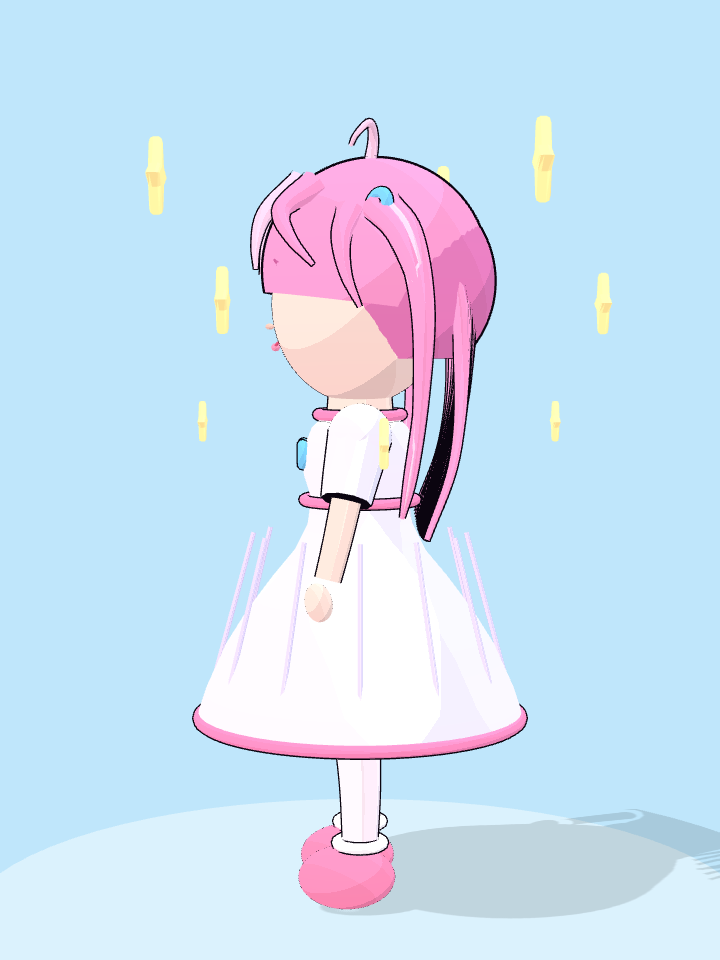
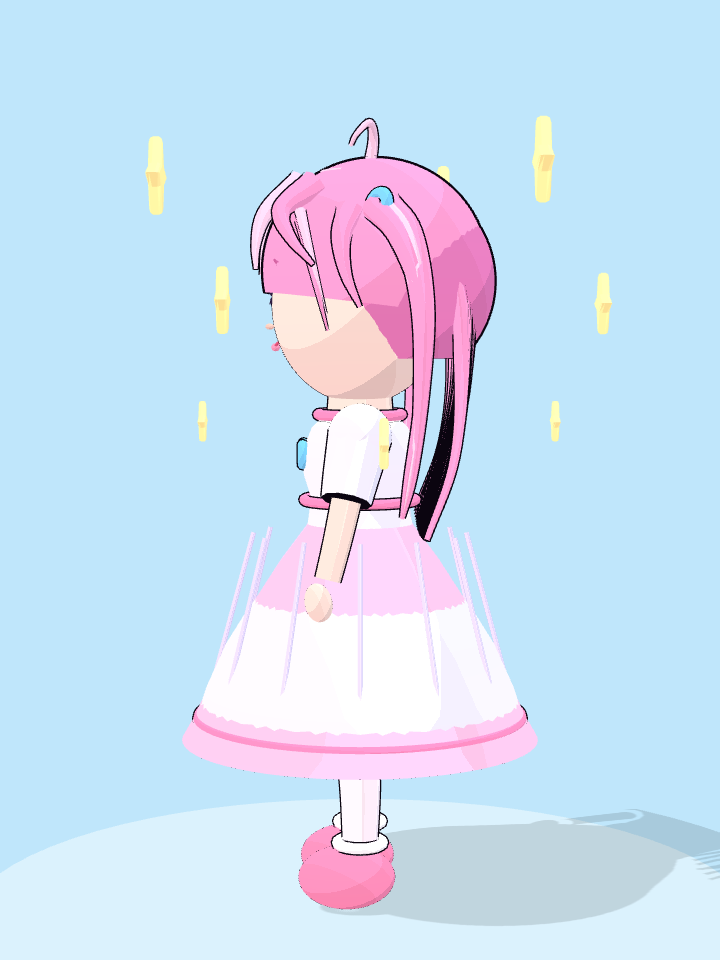
Add eyelashes, hair sheen, petticoat frill, star pin, and face-framing wisps

diff --git a/main.js b/main.js
@@ -218,7 +218,7 @@ function eyeTexture(flip) {
 
 function eyeMesh(flip, x) {
   const mat = new THREE.MeshBasicMaterial({ map: eyeTexture(flip), transparent: true, alphaTest: 0.05 });
-  const m = new THREE.Mesh(new THREE.PlaneGeometry(0.105, 0.125), mat);
+  const m = new THREE.Mesh(new THREE.PlaneGeometry(0.115, 0.14), mat);
   m.position.set(x, -0.012, 0.198);
   m.rotation.z = flip ? 0.05 : -0.05;
   head.add(m);
@@ -227,6 +227,20 @@ function eyeMesh(flip, x) {
 }
 eyeMesh(false, -0.085);
 eyeMesh(true, 0.085);
+
+// eyelashes: short tapered strands fanning from the top lid, outer side longer
+const lashMat = toon(0x2a1c3e);
+for (const s of [-1, 1]) {
+  const cx = s * 0.085, cy = -0.012, rx = 0.058, ry = 0.072;
+  for (let k = 0; k < 5; k++) {
+    const a = Math.PI * (0.55 + k * 0.1) + (s > 0 ? 0 : 0); // top arc, sweep from centre
+    const aa = s < 0 ? Math.PI - a : a;                     // outer corner gets the longer lashes
+    const rxRoot = cx + rx * Math.cos(aa), ryRoot = cy + ry * Math.sin(aa);
+    const reach = 0.03 - k * 0.003;
+    const tip = [rxRoot + Math.cos(aa) * reach * 0.8, ryRoot + reach * 0.9, 0.2];
+    head.add(strand([[rxRoot, ryRoot, 0.2], [(rxRoot + tip[0]) / 2, (ryRoot + tip[1]) / 2 + 0.004, 0.2], tip], 0.0046, 0.0008, { seg: 8, radial: 6 }, lashMat));
+  }
+}
 
 // blush
 const blushMat = new THREE.MeshBasicMaterial({ color: 0xff8fb4, transparent: true, opacity: 0.45, depthWrite: false });
@@ -265,6 +279,22 @@ cap.scale.set(1.0, 1.03, 1.04);
 cap.rotation.x = -0.12;
 addTo(head, cap, true, 0.005);
 
+// sheen: thin lighter arcs following the cap surface for a glossy highlight
+const capCenter = new THREE.Vector3(0, 0.075, -0.035);
+for (const [theta, span] of [[0.5, 0.9], [0.8, 0.8], [1.05, 0.55]]) {
+  const pts = [];
+  for (let k = 0; k <= 6; k++) {
+    const phi = -span + (k / 6) * 2 * span;
+    const R = 0.252;
+    pts.push([
+      capCenter.x + R * Math.sin(theta) * Math.sin(phi) * 1.0,
+      capCenter.y + R * Math.cos(theta),
+      capCenter.z + R * Math.sin(theta) * Math.cos(phi),
+    ]);
+  }
+  head.add(strand(pts, 0.0065, 0.0025, { seg: 20, radial: 6 }, hairHiMat));
+}
+
 // under-layer (deeper tone) for depth behind head
 const under = new THREE.Mesh(new THREE.SphereGeometry(0.235, 48, 28, 0, Math.PI * 2, 0.5, Math.PI * 0.6), hairDeepMat);
 under.position.set(0, 0.05, -0.07);
@@ -282,6 +312,17 @@ const bangPaths = [
 bangPaths.forEach((p, i) => {
   const r0 = i < 4 ? 0.033 : 0.03;
   addTo(head, strand(p, r0, 0.004, { seg: 24, radial: 10, pow: 0.9 }, i % 2 ? hairMat : hairHiMat), true, 0.003);
+});
+
+// wispy side strands framing the face, tapering toward the cheeks
+[[-1, 0], [1, 0], [-1, 1], [1, 1]].forEach(([side, k]) => {
+  const dy = k * 0.02;
+  addTo(head, strand([
+    [side * 0.17, 0.2 - dy, 0.13],
+    [side * 0.215, 0.12 - dy, 0.11],
+    [side * 0.225, 0.04 - dy, 0.09],
+    [side * 0.2, -0.04 - dy, 0.07],
+  ], 0.012, 0.002, { seg: 18, radial: 8, pow: 0.9 }, k ? hairMat : hairHiMat), true, 0.002);
 });
 
 // back hair: overlapping strands from the crown falling behind the shoulders,
@@ -354,6 +395,13 @@ const dressProfile = [
 const dressGeo = new THREE.LatheGeometry(dressProfile, 48);
 const dressMesh = new THREE.Mesh(dressGeo, toon(C.dress, { side: THREE.DoubleSide }));
 addTo(body, dressMesh, true, 0.004);
+
+// petticoat: a lavender-pink underskirt whose frill shows below the dress hem
+const petticoatProfile = [
+  [0.09, 0.92], [0.18, 0.8], [0.27, 0.66], [0.34, 0.52], [0.39, 0.42], [0.41, 0.385],
+].map(([x, y]) => new THREE.Vector2(x, y));
+const petticoat = new THREE.Mesh(new THREE.LatheGeometry(petticoatProfile, 64), toon(0xffc6e6, { side: THREE.DoubleSide }));
+addTo(body, petticoat, true, 0.004);
 
 // trims: hem ring, collar ring, chest ribbon
 const trimMat = toon(C.dressTrim);
@@ -457,6 +505,13 @@ for (let i = 0; i < 9; i++) {
   character.add(m);
   sparkles.push(m);
 }
+
+// star hairpin on the left side of the bangs (kawaii accent)
+const pin = new THREE.Mesh(starGeo, starMat);
+pin.scale.setScalar(0.55);
+pin.position.set(-0.12, 0.2, 0.2);
+pin.rotation.z = 0.2;
+addTo(head, pin, true, 0.002);
 
 // ground disc
 const ground = new THREE.Mesh(
